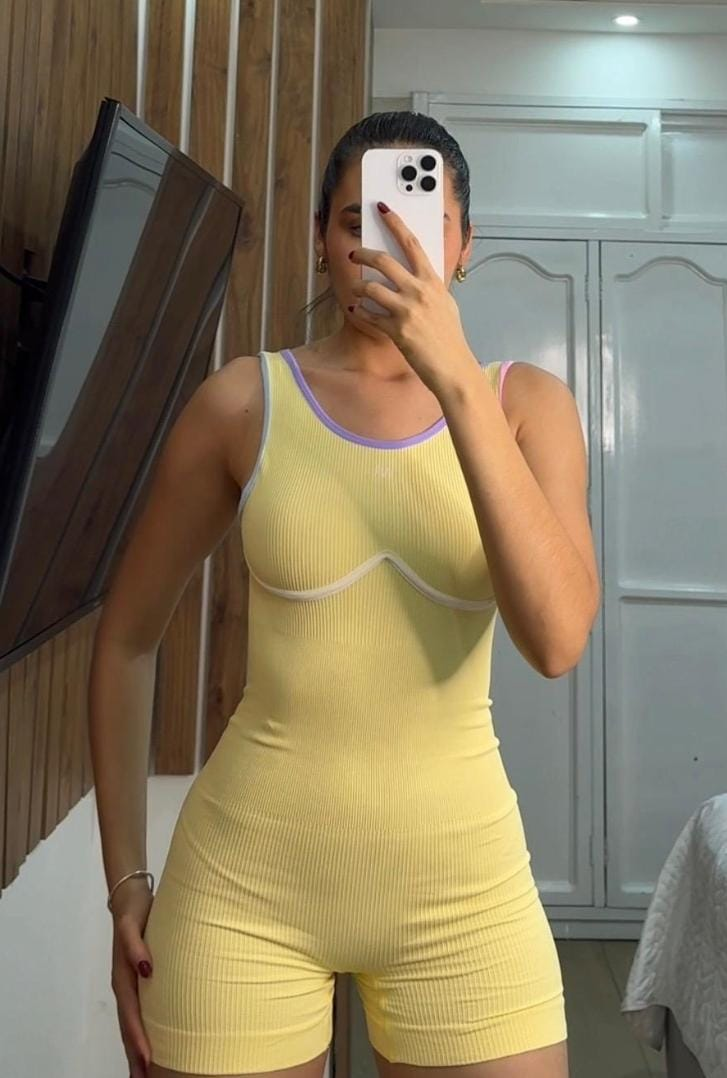
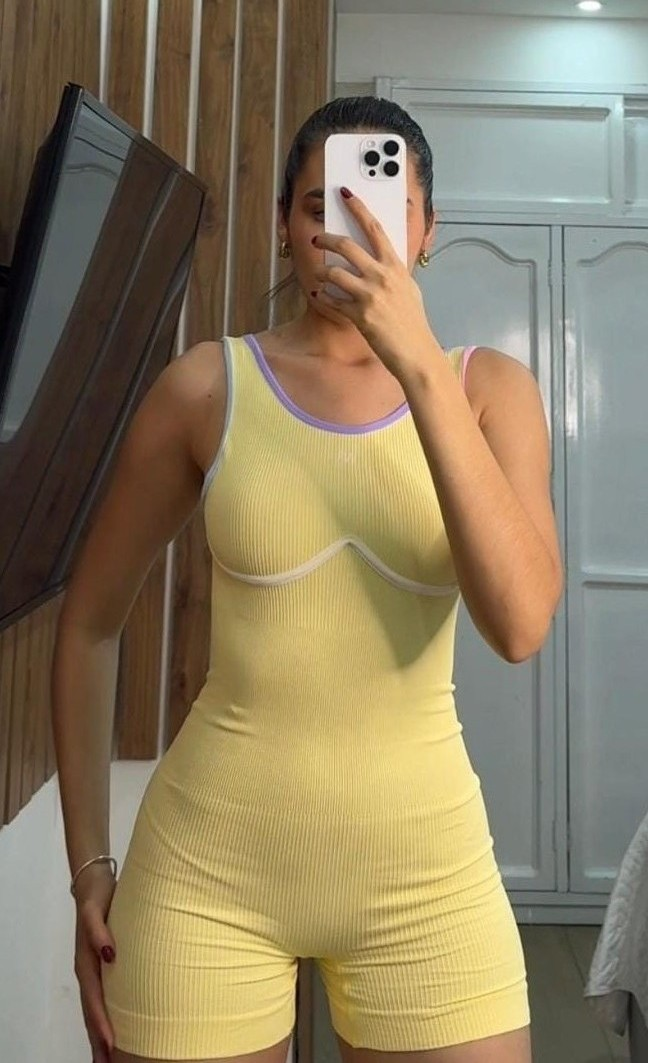
agregamos producto enterizo aurora

diff --git a/src/Components/Assets/all_product.js b/src/Components/Assets/all_product.js
@@ -169,6 +169,26 @@ let all_product = [
     },
   },
   {
+    id: 102,
+    name: "ENTERIZO AURORA - TONO AMARILLO",
+    category: "enterizos",
+    description: "Tela suave con acabados de la mejor calidad",
+    image: enterizoauroraamarillo1,
+    image2: enterizoauroraamarillo2,
+    image3: enterizoauroraamarillo3,
+    image4: enterizoauroraamarillo4,
+    new_price: 110000,
+    old_price: 120000,
+    offer: false,
+    sizes: {
+      XS: false,
+      S: true,
+      M: true,
+      L: false,
+      XL: false,
+    },
+  },
+  {
     id: 124,
     name: "ENTERIZO AMORE - TONO ROSADO",
     category: "enterizos",
